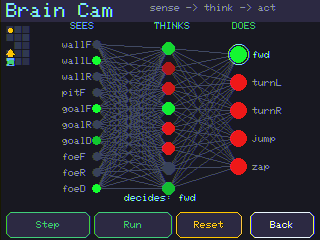
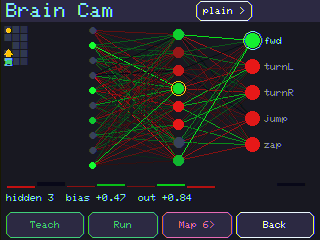
docs: Brain Cam blurb + screenshot for the new live inspector; firmware 3.8
Update the README Brain Cam entry (animated backprop, weight zoom, ff/rnn, any map) and
refresh brain-cam.png (the weight-zoom view). Re-merge the flasher firmware; manifest 3.7 -> 3.8.

diff --git a/README.md b/README.md
@@ -225,7 +225,7 @@ curve is designed to lead there — and then, at the very end, to flip it: once 
 
 | ![Brain Cam](docs/img/brain-cam.png) |
 |:--|
-| **Brain Cam — watch a trained brain *think*.** Step a distilled brain through a maze and see it live: which of the **10 inputs** light up (**SEES**), the **hidden layer** firing (**THINKS**), and the **5 outputs** with the winner ringed (**DOES**) — plus a *"decides: turnR"* verdict. The clearest answer to "what is the network actually doing?" |
+| **Brain Cam — watch a brain *learn* and *think*.** A live inspector for the network. Tap **Teach** and watch **backprop animate**: the connection lines are coloured by weight (green +, red −) and **recolour as it learns**, with an epoch counter and a loss bar that fills as the loss falls. Then **Run** it and the **10 inputs** (SEES), **hidden layer** (THINKS), and **5 outputs** (DOES, winner ringed) light up step-by-step. **Tap any neuron** to zoom in on its **bias and incoming weights** as they update. Flip **plain ↔ rnn** to see a recurrent brain's memory loop, and cycle **Map N** to watch it learn a different real maze. The clearest possible answer to "what is the network actually doing?" |
 
 | ![Pilot — plan + steer](docs/img/neuro-pilot.gif) |
 |:--|